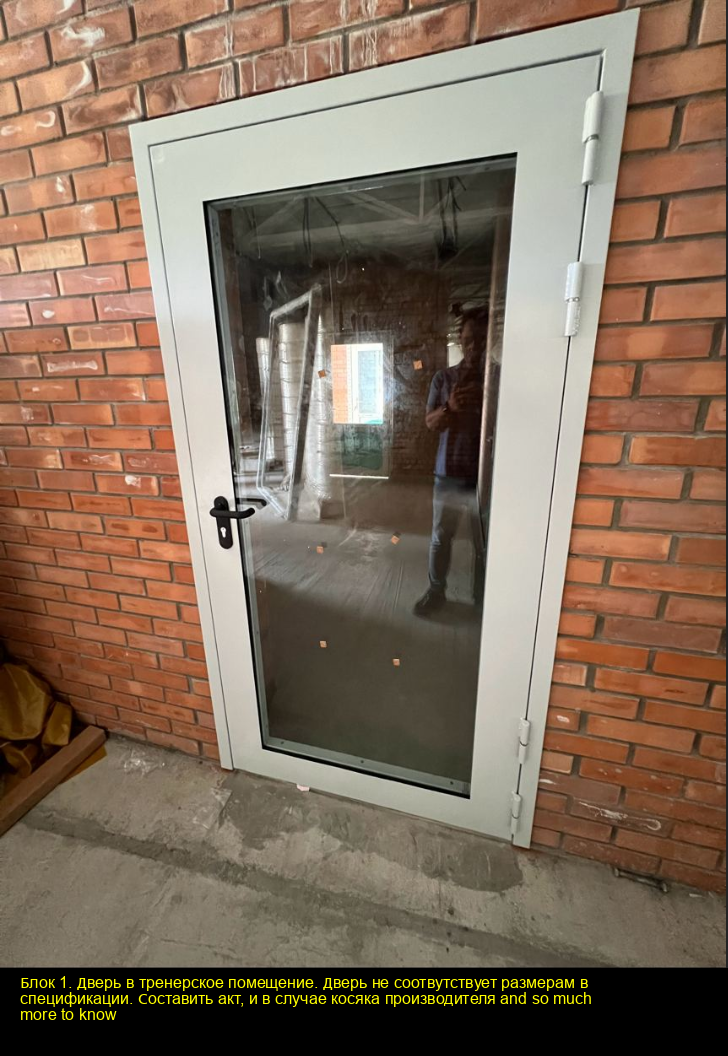
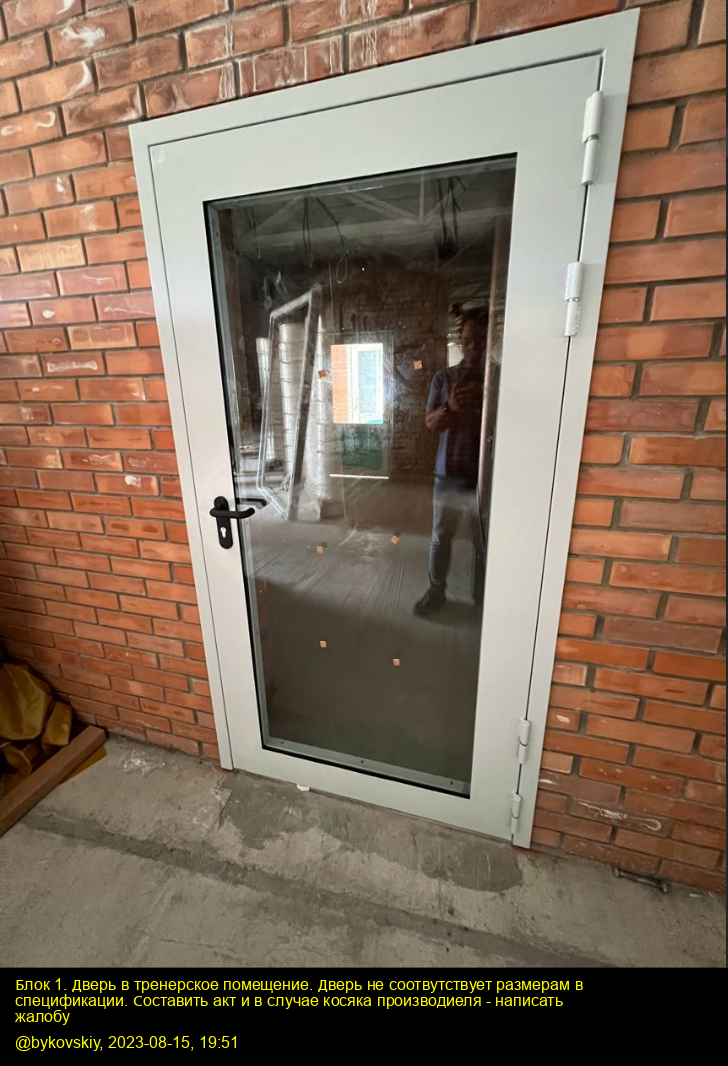
update

diff --git a/main.py b/main.py
@@ -5,26 +5,25 @@ from datetime import datetime
 from PIL import Image, ImageDraw, ImageFont
 
     
-def add_message(image, text, font, text_color, text_start_height, fontsize, spacing):
-    padding_left = 20
-    
+def add_message(image, text, font, text_color, text_start_height, fontsize, spacing, padding_left):
     draw_img = ImageDraw.Draw(image)
-    #image_width, _ = image.size
     y_text = text_start_height
-    lines = textwrap.wrap(text, width=image.width//10)
+    lines = textwrap.wrap(text, width=image.width // 10)
     
     for line in lines:
-        #line_width = font.getlength(line)
+        line_width = font.getlength(line)
         # (image_width - line_width) / 2
+        print((image.width - line_width))
         draw_img.text((padding_left, y_text), 
                   line, font=font, fill=text_color)
         y_text += fontsize*spacing
+        
+    return y_text
 
-def make_wrapper(fontsize, text, image, spacing):
-    # image.width//10
-    sender_mark_space = 40
+def make_wrapper(fontsize, text, image, spacing, padding_bottom):
+    sender_mark_space = 40 + padding_bottom
     
-    lines = textwrap.wrap(text, width=image.width//10)
+    lines = textwrap.wrap(text, width=image.width // 10)
     
     extra_bound_size = 0
     for _ in lines:
@@ -36,8 +35,22 @@ def make_wrapper(fontsize, text, image, spacing):
     
     return wrapper, extra_bound_size
 
-# def sender_mark(image_wrapper, message_sender):
-#     current_time = datetime.now()
+def sender_mark(image_wrapper, message_sender, text_start, font, text_color, fontsize, spacing, padding_left):
+    current_time = datetime.now()
+    
+    date = current_time.strftime('%Y-%m-%d')
+    timer = current_time.strftime('%H:%M')
+    
+    text =  f'@{message_sender}, {date}, {timer}'
+    lines = textwrap.wrap(text, width=image_wrapper.width//10)
+    
+    draw_img = ImageDraw.Draw(image_wrapper)
+    
+    y_text = text_start
+    for line in lines:
+        draw_img.text((padding_left, y_text), 
+                  line, font=font, fill=text_color)
+        y_text += fontsize*spacing
     
 def main():
     image_name = sys.argv[1]
@@ -51,17 +64,21 @@ def main():
     fontsize = 16
     font = ImageFont.truetype("./fonts/arial.ttf", fontsize)
     text_color = (255,255,0)
-    padding_top = 8
+    padding_top = 10
+    padding_bottom = 10
+    padding_left = 15
     spacing = 1
     
     
     image = Image.open(f'./images/{image_name}')
+    #font, fontsize = get_proper_font(image, text)
+    print(image.width)
     
-    image_wrapper, bound_size = make_wrapper(fontsize, text, image, spacing)
+    image_wrapper, bound_size = make_wrapper(fontsize, text, image, spacing, padding_bottom)
     text_start_height = image_wrapper.height - int(bound_size) + padding_top
     
-    add_message(image_wrapper, text, font, text_color, text_start_height, fontsize, spacing)
-   # sender_mark(image_wrapper, message_sender)
+    text_end_line = add_message(image_wrapper, text, font, text_color, text_start_height, fontsize, spacing, padding_left)
+    sender_mark(image_wrapper, message_sender, text_end_line + padding_top, font, text_color, fontsize, spacing, padding_left)
     
     image_wrapper.save(f'./results/{image_name}')
 
